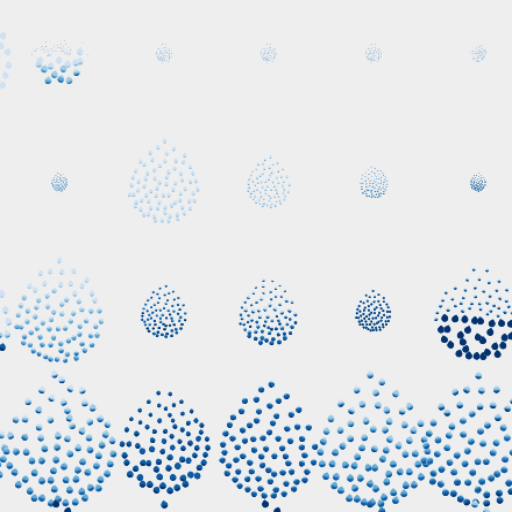
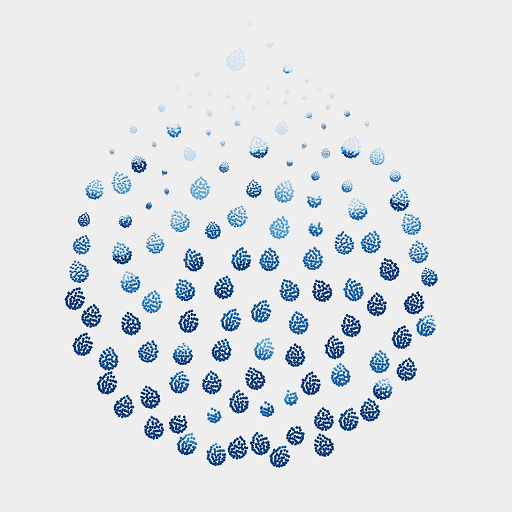
text how hover

diff --git a/src/LargeDropletMosaicApp.jsx b/src/LargeDropletMosaicApp.jsx
@@ -125,45 +125,73 @@ export default function LargeDropletMosaicApp({ watercolor = false }) {
           dur: Math.random() * 100 + 400,
           startX: x,
           startY: y,
+          obj,
         }));
 
         return nodes;
       })
       .reverse();
 
+    const largeNodesRads = {};
+
     const largeNodesPos = placeDropsUsingPhysics(
       0,
       0,
       nodesArr.map((largeDrop, idx) => ({
-        r: Math.max(
+        r: (largeNodesRads[idx] = Math.max(
           1,
           Math.sqrt(d3.sum(largeDrop.map((d) => d.maxLev)) / Math.PI) * 8
-        ),
+        )),
         id: idx,
       }))
-    ).map(({ x, y }) => ({ x, y, tilt: Math.random() * 50 - 25 }));
+    ).map(({ x, y }, i) => ({
+      x,
+      y,
+      tilt: Math.random() * 50 - 25,
+      r: largeNodesRads[i],
+    }));
 
     bucketSvgSelector.current
       .selectAll(".largeDrop")
       .data(nodesArr, (_, i) => i)
-      .join("g")
+      .join((enter) =>
+        enter.append("g").call((s) => {
+          s.append("text").attr("dominant-baseline", "middle");
+          s.append("g").attr("class", "rotateClass");
+
+          s.append("rect")
+            // .attr('class', 'click-capture')
+            .style("visibility", "hidden")
+            .attr("x", 0)
+            .attr("y", 0)
+            .attr("width", 40)
+            .attr("height", 40);
+        })
+      )
       .attr("class", "largeDrop")
       .attr(
         "transform",
         (_, i) =>
           `translate(${largeNodesPos[i].x + width / 2}, ${
             largeNodesPos[i].y + height / 2
-          }) rotate(${largeNodesPos[i].tilt})`
+          })`
       )
       .each(function (nodes, i1) {
         d3.select(this)
+          .select("text")
+          .text(nodes[0].obj)
+          .style("opacity", 0)
+          .attr("transform", `translate(${largeNodesRads[i1] / 4 + 2}, ${0})`);
+        d3.select(this)
+          .select(".rotateClass")
+          .attr("transform", `rotate(${largeNodesPos[i1].tilt})`)
           .selectAll(".smallDrop")
           .data(nodes, (_, i) => i)
           .join((enter) => {
             return enter
               .append("g")
               .attr("class", "smallDrop")
-              .each(function ({ levs }, i2) {
+              .each(function ({ levs, obj }, i2) {
                 d3.select(this)
                   .append("defs")
                   .append("clipPath")
@@ -186,7 +214,14 @@ export default function LargeDropletMosaicApp({ watercolor = false }) {
             ({ startX, startY, tilt }) =>
               `translate(${startX}, ${startY}) rotate(${tilt})`
           )
-          .each(function ({ levs, maxLev }) {
+          .on("mouseover", function () {
+            d3.select(this).select("text").style("opacity", 1);
+            console.log("asdf");
+          })
+          .on("mouseout", function () {
+            d3.select(this).select("text").style("opacity", 0);
+          })
+          .each(function ({ levs, maxLev, obj }, i) {
             d3.select(this)
               .selectAll("rect")
               .data(levs, (_, i) => i)

diff --git a/src/RecursiveDropletsBasicApp.jsx b/src/RecursiveDropletsBasicApp.jsx
@@ -8,6 +8,7 @@ import {
   percentToRatioFilled,
   placeDropsUsingPhysics,
 } from "./utils";
+import { useSearchParams } from "react-router-dom";
 
 const LEVELS = 5;
 const DEFAULT_OBJECTIVE_IDX = 2;
@@ -20,6 +21,7 @@ export default function RecursiveDropletsBasicApp({ watercolor = false }) {
   const winDim = useRef();
   const [curObjectiveIdx, setCurObjectiveIdx] = useState(DEFAULT_OBJECTIVE_IDX);
   const [normalize, setNormalize] = useState(false);
+  const [searchParams, setSearchParams] = useSearchParams();
 
   const bucketSvgSelector = useRef();
 
@@ -56,6 +58,13 @@ export default function RecursiveDropletsBasicApp({ watercolor = false }) {
     bucketSvgSelector.current
       .attr("width", window.innerWidth)
       .attr("height", window.innerHeight);
+
+    if (
+      searchParams.get("obj") &&
+      objectiveIDs.includes(searchParams.get("obj"))
+    ) {
+      setCurObjectiveIdx(objectiveIDs.indexOf(searchParams.get("obj")));
+    }
   }, []);
 
   useLayoutEffect(() => {

diff --git a/src/index.css b/src/index.css
@@ -542,3 +542,7 @@ main {
   display: block;
   margin: 0;
 }
+
+text {
+  font-size: 0.8rem;
+}
